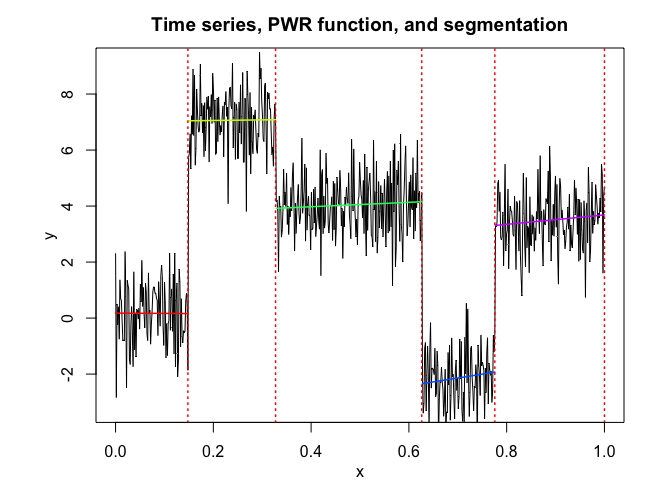
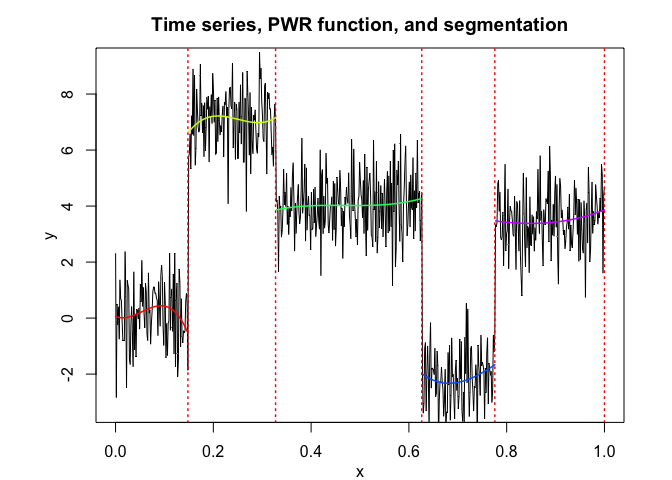
Update costMatrix.cpp + Update examples
- Update examples: Add variables 'x' and 'y' to store data;
- ModelPWR.R: Change 'K' into 'k' in the 'summary' methods of classes ModelPWR.

diff --git a/src/costMatrix.cpp b/src/costMatrix.cpp
@@ -8,6 +8,9 @@ using namespace Rcpp;
 arma::mat costMatrix(arma::colvec& y, arma::mat& X, double Lmin = 1) {
 
     double nl = y.size() - Lmin + 1;
+    double nk;
+
+    double sigma2;
 
     arma::Mat<double> C1 = arma::mat(y.size(), y.size());
     C1.fill(arma::datum::inf);
@@ -26,12 +29,12 @@ arma::mat costMatrix(arma::colvec& y, arma::mat& X, double Lmin = 1) {
           arma::colvec yab = y.subvec(a, b);
           arma::mat X_ab = X.rows(a, b);
 
-          double nk = b - a;
+          nk = b - a;
 
           arma::colvec beta = pinv(X_ab.t() * X_ab) * X_ab.t() * yab;
           arma::colvec z = yab - X_ab * beta;
-          double sigma = arma::as_scalar(z.t() * z) / nk;
-          C1(a, b) = nk + nk * log(sigma + 2.220446e-16);
+          sigma2 = arma::as_scalar(z.t() * z) / nk;
+          C1(a, b) = nk * 0.5 * std::log(2 * arma::datum::pi) + nk * 0.5 * std::log(sigma2 + 2.220446e-16) + arma::as_scalar(z.t() * z) / sigma2;
         }
       }
     }

diff --git a/README.md b/README.md
@@ -45,11 +45,38 @@ library(PWR)
 ``` r
 # Application to a toy data set
 data("toydataset")
+x <- toydataset$x
+y <- toydataset$y
 
 K <- 5 # Number of segments
-p <- 1 # Polynomial degree
+p <- 3 # Polynomial degree
 
-pwr <- fitPWRFisher(toydataset$x, toydataset$y, K, p)
+pwr <- fitPWRFisher(X = x, Y = y, K, p)
+
+pwr$summary()
+#> --------------------
+#> Fitted PWR model
+#> --------------------
+#> 
+#> PWR model with K = 5 components:
+#> 
+#> Clustering table (Number of observations in each regimes):
+#> 
+#>   1   2   3   4   5 
+#> 100 120 200 100 150 
+#> 
+#> Regression coefficients:
+#> 
+#>       Beta(k = 1) Beta(k = 2) Beta(k = 3) Beta(k = 4) Beta(k = 5)
+#> 1    6.106872e-02   -5.450955   -2.776275    122.7045    4.020809
+#> X^1 -7.486945e+00  158.922010   43.915969   -482.8929   13.217587
+#> X^2  2.942201e+02 -651.540876  -94.269414    609.6493  -33.787416
+#> X^3 -1.828308e+03  866.675017   67.247141   -249.8667   20.412380
+#> 
+#> Variances:
+#> 
+#>  Sigma2(k = 1) Sigma2(k = 2) Sigma2(k = 3) Sigma2(k = 4) Sigma2(k = 5)
+#>       1.220624      1.110193      1.079366     0.9779733      1.028329
 
 pwr$plot()
 ```
@@ -59,11 +86,38 @@ pwr$plot()
 ``` r
 # Application to a real data set
 data("realdataset")
+x <- realdataset$x
+y <- realdataset$y2
 
 K <- 5 # Number of segments
 p <- 3 # Polynomial degree
 
-pwr <- fitPWRFisher(realdataset$x, realdataset$y2, K, p)
+pwr <- fitPWRFisher(X = x, Y = y, K, p)
+
+pwr$summary()
+#> --------------------
+#> Fitted PWR model
+#> --------------------
+#> 
+#> PWR model with K = 5 components:
+#> 
+#> Clustering table (Number of observations in each regimes):
+#> 
+#>   1   2   3   4   5 
+#>  15 130 178 113 126 
+#> 
+#> Regression coefficients:
+#> 
+#>     Beta(k = 1) Beta(k = 2) Beta(k = 3) Beta(k = 4) Beta(k = 5)
+#> 1      2163.323   334.23747   1458.6530 -11445.9003  6418.36449
+#> X^1  -13244.753  -125.04633  -1578.1793   9765.9713 -3572.38535
+#> X^2  -86993.374    35.33532    753.8468  -2660.5976   699.64809
+#> X^3  635558.069    49.12683   -113.1589    238.3246   -45.43516
+#> 
+#> Variances:
+#> 
+#>  Sigma2(k = 1) Sigma2(k = 2) Sigma2(k = 3) Sigma2(k = 4) Sigma2(k = 5)
+#>       9326.335      50.71573      75.23989      110.6818      15.66317
 
 pwr$plot()
 ```
